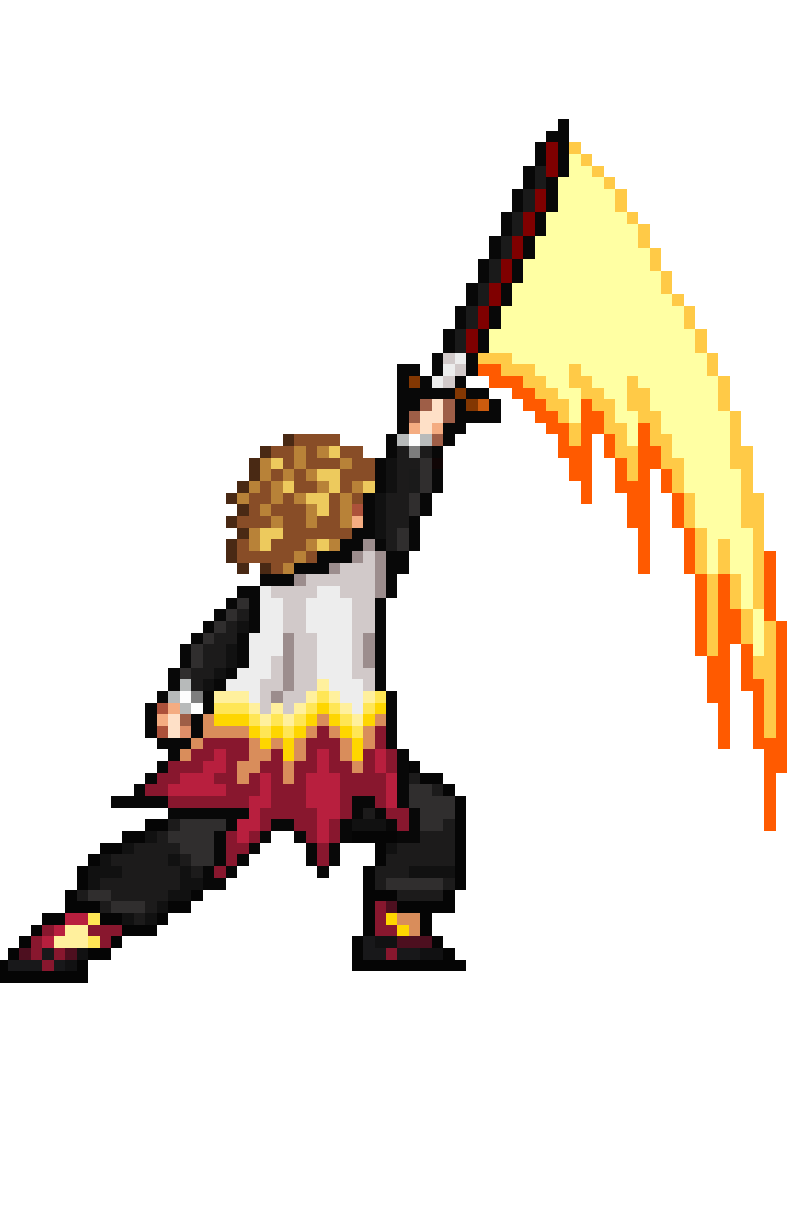
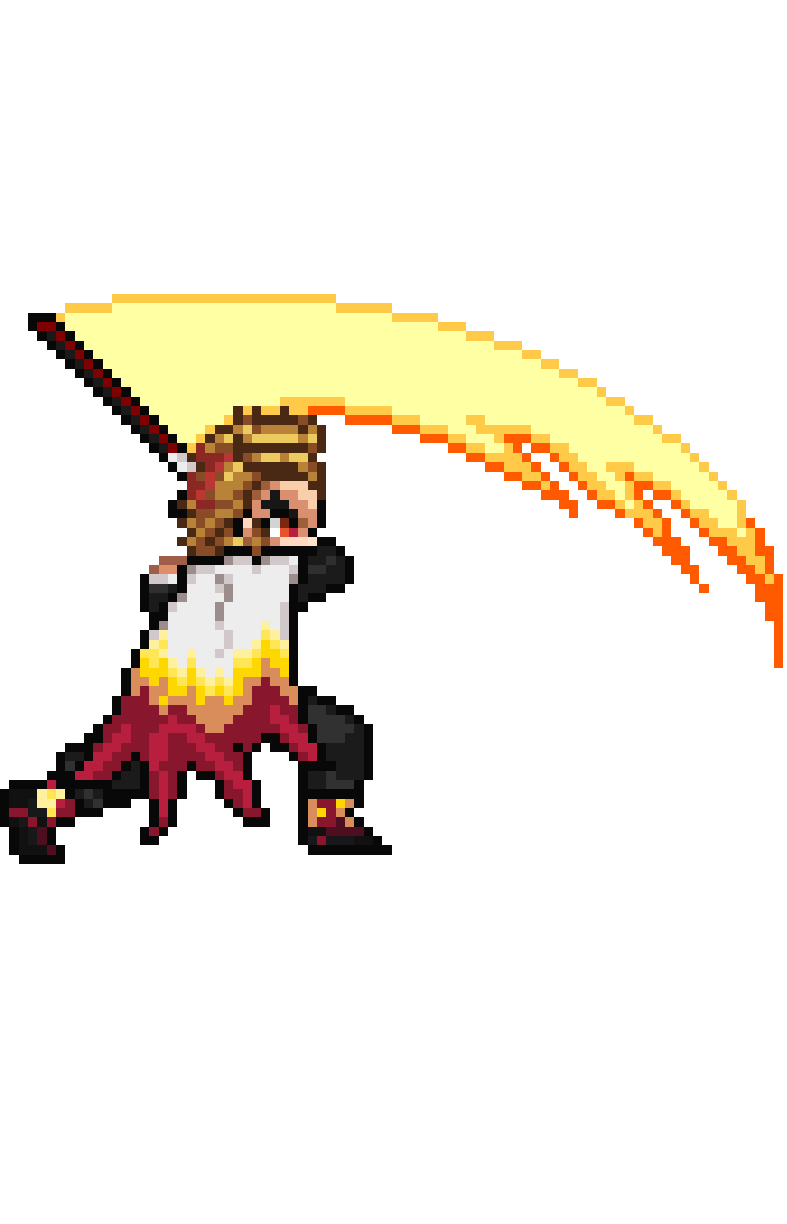
bosa l ahmed

Changed region(s): [[0.0, 0.0931, 1.0, 0.8072]]

diff --git a/DungeonSlayer.cpp b/DungeonSlayer.cpp
@@ -62,10 +62,10 @@ Texture DeathAnimation[3];
 Texture HitAnimation[3];
 Texture BaseAttack[8];
 Texture Zmove[7];
-Texture Xmove[6];
-Texture Cmove[6];
+Texture Xmove[8];
+Texture Cmove[8];
 Texture Vmove[2];
-Texture walkAnimation[6];
+Texture walkAnimation[8];
 
 
 Sprite Player;
@@ -216,14 +216,20 @@ void setTextures()
     for (int i = 0; i < 8; i++) {
         RunAnimation[i].loadFromFile("Run/run" + to_string(i) + ".png");
     }
-    for (int i = 0; i < 8; i++) {
+    for (int i = 0; i < 7; i++) {
         Zmove[i].loadFromFile("Z move/Zmove" + to_string(i) + ".png");
+    } 
+    for (int i = 0; i < 8; i++) {
+        Xmove[i].loadFromFile("X move/Xmove" + to_string(i) + ".png");
+    } 
+    for (int i = 0; i < 8; i++) {
+        Cmove[i].loadFromFile("C move/Cmove" + to_string(i) + ".png");
     }
-    for (int i = 0; i < 6; i++) {
+    for (int i = 0; i < 8; i++) {
         walkAnimation[i].loadFromFile("walk/Walk" + to_string(i) + ".png");
     }
 
-    for (int i = 0; i < 9; i++) {
+    for (int i = 0; i < 8; i++) {
         BaseAttack[i].loadFromFile("base/Base" + to_string(i) + ".png");
     }
 }
@@ -306,10 +312,12 @@ void Switch_States()
           switch (curr_state)
             {    
            case state::run:  maximagecounter = 8;Player.setTexture(RunAnimation[ImageCounter]); break;
-           case state::walk:  maximagecounter = 6;Player.setTexture(walkAnimation[ImageCounter]); break;
+           case state::walk:  maximagecounter = 8;Player.setTexture(walkAnimation[ImageCounter]); break;
            case state::idle:; Player.setTexture(Idle); break;
            case state::base: maximagecounter = 8;Player.setTexture(BaseAttack[ImageCounter]); ImageCounter = 0; sha8al = true ; break;
-           case state::zmove: maximagecounter = 5;Player.setTexture(Zmove[ImageCounter]); ImageCounter = 0; sha8al = true; break;
+           case state::zmove: maximagecounter = 7;Player.setTexture(Zmove[ImageCounter]); ImageCounter = 0; sha8al = true; break;
+           case state::xmove: maximagecounter = 8;Player.setTexture(Xmove[ImageCounter]); ImageCounter = 0; sha8al = true; break;
+           case state::cmove: maximagecounter = 8;Player.setTexture(Cmove[ImageCounter]); ImageCounter = 0; sha8al = true; break;
          }
      
           
@@ -320,6 +328,8 @@ void Switch_States()
         case state::idle: Player.setTexture(Idle); UpdateAnimationCounter(0.1); break;
         case state::base:  Player.setTexture(BaseAttack[ImageCounter]); UpdateAnimationCounter(0.125); break;
         case state::zmove: Player.setTexture(Zmove[ImageCounter]); UpdateAnimationCounter(0.125); break;
+        case state::xmove: Player.setTexture(Xmove[ImageCounter]); UpdateAnimationCounter(0.125); break;
+        case state::cmove: Player.setTexture(Cmove[ImageCounter]); UpdateAnimationCounter(0.125); break;
 
      }
      //UpdateAnimationCounter();
